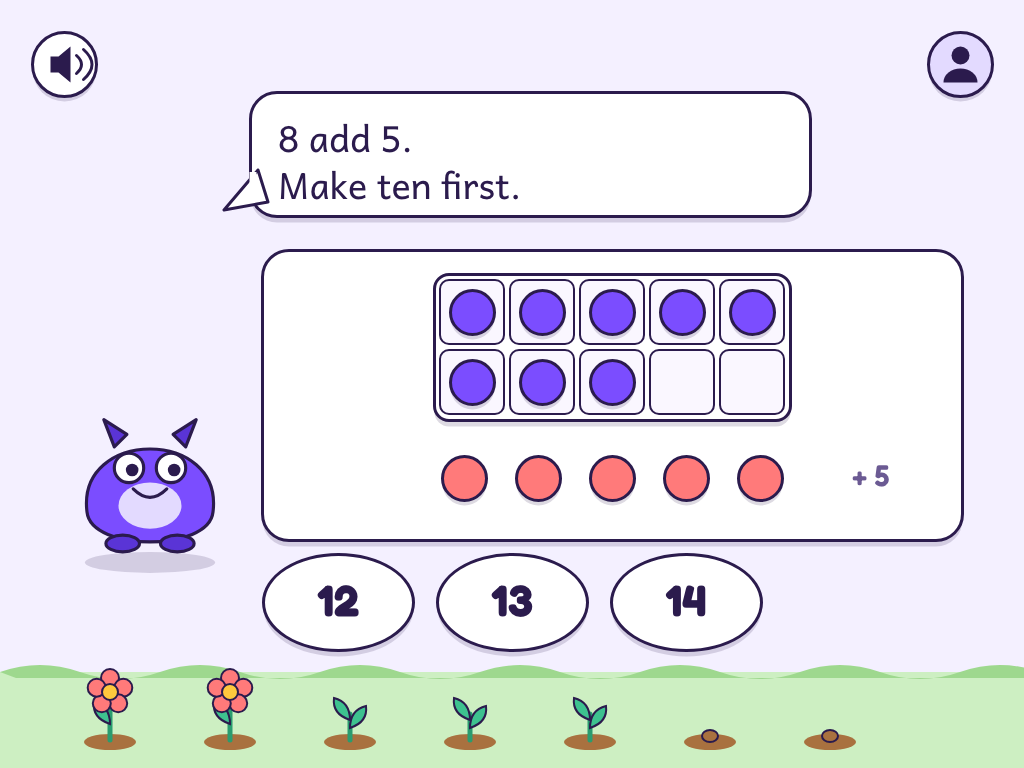
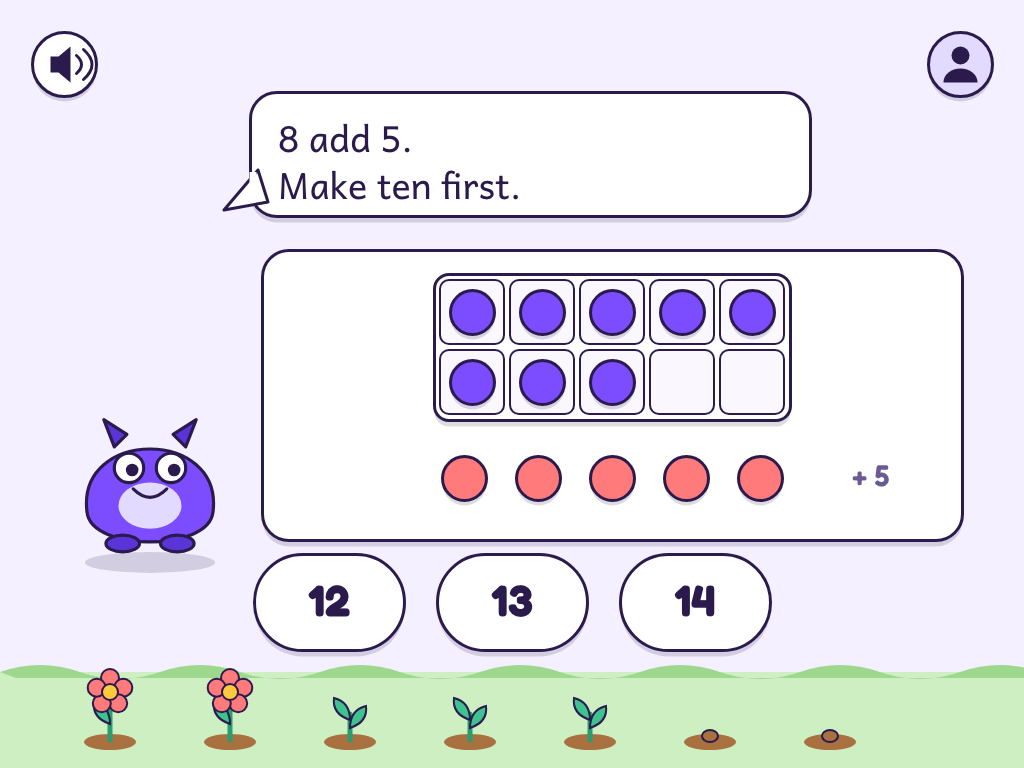
All four Infant screens, and the two shapes a child screen is not drawn for

diff --git a/README.md b/README.md
@@ -3,11 +3,30 @@
 What the app actually renders, next to the drawing it was built to.
 
 Public on purpose: these are the pictures used to review the build. They
-contain **no personal data** — no child's name, no account, no address,
-no analytics. Every screen here is a fixed example question chosen for
-the test, not anyone's real session.
+contain **no personal data** — no child's real name, no account, no
+address, no analytics. Every screen here is a fixed example chosen for
+the test.
 
 The app itself is at **[app.dumdummaths.com](https://app.dumdummaths.com)**.
+
+## How to read the difference images
+
+**Yellow is antialiasing. Red is a real difference.** The comparison is
+Playwright's `toHaveScreenshot` at 1024x768, threshold 0.03, where the
+*expected* image is the mockup itself rather than a snapshot of the app —
+a screenshot test that compares an app to a picture of that same app
+always passes; these can fail.
+
+The mockup PNGs are rendered by the same browser and the same font files
+the app uses, so what is left is genuinely sub-pixel: a curve or a glyph
+edge landing half a pixel differently.
+
+| screen | difference | of 786,432 pixels |
+|---|---|---|
+| 01 — a question | **493** | 0.063% |
+| 02 — one miss later | **1,133** | 0.144% |
+| 03 — who's playing | **238** | 0.030% |
+| 04 — finished for today | **119** | 0.015% |
 
 ---
 
@@ -16,49 +35,58 @@ The app itself is at **[app.dumdummaths.com](https://app.dumdummaths.com)**.
 The Infant frame: DumDum bottom-left, the question in his speech bubble,
 one card in the middle holding the apparatus, the answers along the
 bottom, and the garden underneath so the child can see what they are
-growing.
-
-The question is the mockup's: **8 add 5**, eight counters already in the
-ten frame and five loose underneath.
+growing. **8 add 5**, eight counters in the ten frame and five loose.
 
 | the drawing | the build | the difference |
 |---|---|---|
 | ![mockup](01-question/mockup.png) | ![built](01-question/built.png) | ![diff](01-question/diff.png) |
 
-**2,366 pixels of 786,432 differ — 0.30%.**
+## 02 — the same question, one miss later
 
-In the difference image, **yellow is antialiasing** and **red is a real
-difference**. Everything red is a glyph edge: the drawing's text was
-rasterised by one engine and the build's by the browser, so the letters
-never land on identical pixels. No box, outline, colour or shadow is out
-of place — those are checked separately, to the pixel, by measuring
-every element's bounding box against the coordinates in the SVG.
+The card they pressed lights **sun, never red, and there is no cross**.
+Two counters lift and dashed paths run into the two empty cells.
 
-Built with a Playwright `toHaveScreenshot` comparison at 1024×768,
-threshold 0.03, where the *expected* image is the mockup itself rather
-than a snapshot of the app. A screenshot test that compares an app to a
-picture of that same app always passes; this one can fail.
+Nothing on this screen holds the number two: the engine decides that a
+second miss shows the working, and the ten frame works out that the gap
+to ten is 10 minus 8.
 
-The picture is one of seven checks on this screen. The others read the
-question's content, measure every box against the SVG's own coordinates,
-read the computed colour and font of every part, hold the 64px touch
-floor, and press each control to prove none of them is dead — because
-the pixel budget has to be loose enough to survive Linux rasterising the
-fonts differently, and a budget that loose would not notice one counter
-turning the wrong colour.
+| the drawing | the build | the difference |
+|---|---|---|
+| ![mockup](02-wrong/mockup.png) | ![built](02-wrong/built.png) | ![diff](02-wrong/diff.png) |
 
-### The same screen at other sizes
+## 03 — who's playing
 
-The frame is a fixed 1024×768 canvas scaled to fit, so nothing can
-reflow into a layout nobody drew. Everything is present and centred at
-every size — but the targets scale down with it, and below the design
-size they fall under the 64px floor a child's finger needs.
+One big card per child: a face to recognise before you can read the
+name. The faces are art slots — a coloured disc until real avatars
+exist.
 
-| iPad portrait 768×1024 | phone 390×844 |
+| the drawing | the build | the difference |
+|---|---|---|
+| ![mockup](03-start/mockup.png) | ![built](03-start/built.png) | ![diff](03-start/diff.png) |
+
+## 04 — finished for today
+
+The garden fills the bottom of the screen, because it is the whole
+reward: what grew is what they did. No score, no stars, no "7 out of
+10". One way out, and it is a leaf.
+
+| the drawing | the build | the difference |
+|---|---|---|
+| ![mockup](04-finished/mockup.png) | ![built](04-finished/built.png) | ![diff](04-finished/diff.png) |
+
+---
+
+## Held the wrong way up, or on a phone
+
+A child screen is landscape. Rather than squeeze the drawing into a
+shape nobody drew — which put every target at 50px in portrait and 26px
+on a phone, against a 64px floor — the product shows a screen made for
+the shape it is in.
+
+The portrait one has **no words at all**: a Year 1 child may not read
+yet, so DumDum turning inside an arrow is the whole message, and
+"Turn me round!" is spoken.
+
+| portrait on a tablet | on a phone |
 |---|---|
-| ![portrait](01-question/sizes/tablet-portrait.png) | ![phone](01-question/sizes/phone.png) |
-
-Smallest control: **67px** at 1024×768, **50px** in portrait, **26px** on
-a phone. That is why this frame is on a design route and is not wired
-into the app yet: it is a real blocker, written down, not a surprise
-waiting for a child.
+| ![portrait](shapes/portrait.png) | ![phone](shapes/phone.png) |
